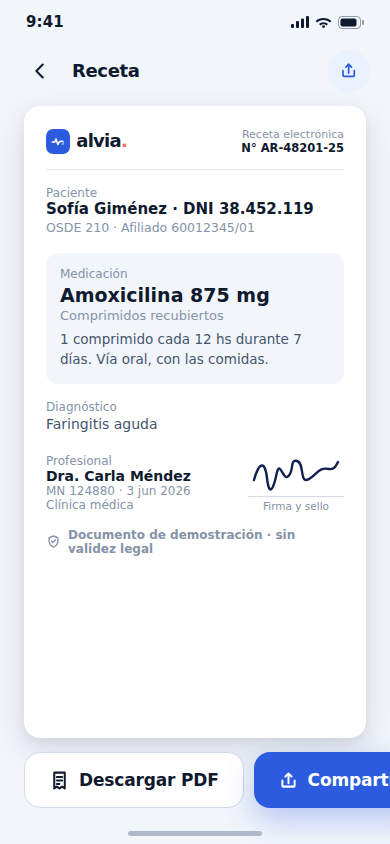
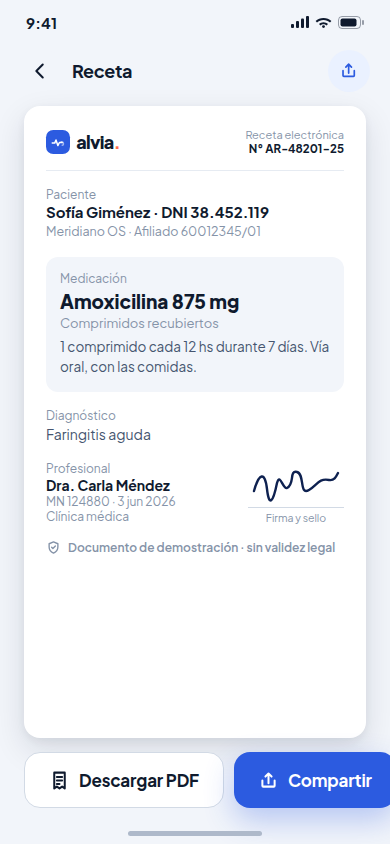
fix: replace OSDE in public demo fixtures (#3)

diff --git a/v3/index.html b/v3/index.html
@@ -44,7 +44,7 @@
       <div class="hero-media">
         <img class="hero-photo" src="assets/doctor-videoconsulta.png" alt="Médico atendiendo una videoconsulta con Alvia">
         <figure class="hero-product">
-          <img src="assets/app-paciente.png" alt="Aplicación de Alvia para el afiliado">
+          <img src="assets/app-paciente.png?v=20260824-meridiano-os" alt="Aplicación de Alvia para el afiliado">
           <figcaption><span></span>Atención espontánea y turnos</figcaption>
         </figure>
       </div>
@@ -154,7 +154,7 @@
               <li>Bloquea atenciones fuera de la cobertura.</li>
             </ul>
           </div>
-          <figure class="phone-shot"><img src="assets/mockup-preconsulta-autorizacion.png" alt="Código de autorización en la app de Alvia"></figure>
+          <figure class="phone-shot"><img src="assets/mockup-preconsulta-autorizacion.png?v=20260824-meridiano-os" alt="Código de autorización en la app de Alvia"></figure>
         </article>
 
         <article class="feature">
@@ -168,7 +168,7 @@
               <li>Pago registrado y listo para conciliar.</li>
             </ul>
           </div>
-          <figure class="phone-shot"><img src="assets/mockup-preconsulta-copago.png" alt="Copago de una consulta en la app de Alvia"></figure>
+          <figure class="phone-shot"><img src="assets/mockup-preconsulta-copago.png?v=20260824-meridiano-os" alt="Copago de una consulta en la app de Alvia"></figure>
         </article>
 
         <article class="feature feature-reverse">
@@ -182,7 +182,7 @@
               <li>Registro disponible para auditoría.</li>
             </ul>
           </div>
-          <figure class="phone-shot"><img src="assets/mockup-postconsulta-paciente.png" alt="Receta electrónica en la app del afiliado"></figure>
+          <figure class="phone-shot"><img src="assets/mockup-postconsulta-paciente.png?v=20260824-meridiano-os" alt="Receta electrónica en la app del afiliado"></figure>
         </article>
       </div>
     </section>
@@ -211,7 +211,7 @@
           <p>Video, historia clínica, cobertura, documentación y prescripción en una misma consola.</p>
         </header>
         <figure class="console-window live-consultation">
-          <img class="live-consultation__base" src="assets/console-medica.png" alt="Consola médica de Alvia durante una videoconsulta">
+          <img class="live-consultation__base" src="assets/console-medica.png?v=20260824-meridiano-os" alt="Consola médica de Alvia durante una videoconsulta">
           <video class="live-consultation__patient" src="assets/videoconsulta-paciente.mp4" autoplay muted loop playsinline preload="metadata" disablepictureinpicture aria-label="Paciente participando de la videoconsulta"></video>
           <div class="live-consultation__shade" aria-hidden="true"></div>
           <span class="live-consultation__role" aria-hidden="true">Paciente</span>

diff --git a/v2/index.html b/v2/index.html
@@ -151,8 +151,8 @@
         <div class="use-grid">
           <article class="use-card">
             <figure class="use-photo use-photo--product use-photo--phones">
-              <img src="assets/mockup-preconsulta-autorizacion.png" alt="Código de autorización en la app del afiliado">
-              <img src="assets/mockup-preconsulta-copago.png" alt="Copago previo a la consulta en la app del afiliado">
+              <img src="assets/mockup-preconsulta-autorizacion.png?v=20260824-meridiano-os" alt="Código de autorización en la app del afiliado">
+              <img src="assets/mockup-preconsulta-copago.png?v=20260824-meridiano-os" alt="Copago previo a la consulta en la app del afiliado">
             </figure>
             <h3>La cobertura se valida antes de atender</h3>
             <p>Validá identidad, cobertura y plan. Si corresponde, el afiliado paga el copago con tarjeta, transferencia o QR antes de la consulta. Cada cobro queda registrado.</p>
@@ -160,7 +160,7 @@
           <article class="use-card">
             <figure class="use-photo use-photo--product use-photo--consultation">
               <div class="live-consultation">
-                <img class="live-consultation__base" src="assets/console-medica.png" alt="Consola médica real de Alvia durante una videoconsulta">
+                <img class="live-consultation__base" src="assets/console-medica.png?v=20260824-meridiano-os" alt="Consola médica real de Alvia durante una videoconsulta">
                 <video class="live-consultation__patient" src="assets/videoconsulta-paciente.mp4" autoplay muted loop playsinline preload="metadata" disablepictureinpicture aria-label="Paciente participando de la videoconsulta"></video>
                 <div class="live-consultation__shade" aria-hidden="true"></div>
                 <span class="live-consultation__role" aria-hidden="true">Paciente</span>
@@ -195,7 +195,7 @@
           <div class="product-proof-grid">
             <figure class="product-shot product-shot--phone">
               <div class="product-shot-media">
-                <img src="assets/mockup-postconsulta-paciente.png" alt="Receta electrónica disponible en la app del afiliado">
+                <img src="assets/mockup-postconsulta-paciente.png?v=20260824-meridiano-os" alt="Receta electrónica disponible en la app del afiliado">
               </div>
               <figcaption>App del afiliado · Receta electrónica</figcaption>
             </figure>
@@ -220,7 +220,7 @@
 
     <section class="split-dark" id="operacion">
       <figure class="split-img">
-        <img src="assets/console-medica.png" alt="Consola médica Alvia">
+        <img src="assets/console-medica.png?v=20260824-meridiano-os" alt="Consola médica Alvia">
       </figure>
       <div class="split-copy">
         <p class="brand-kicker">— Antes, durante y después —</p>

diff --git a/v1/index.html b/v1/index.html
@@ -1392,7 +1392,7 @@
               <div style="width:30px;height:30px;border-radius:50%;background:var(--brand-soft-2);color:var(--brand);display:flex;align-items:center;justify-content:center;font-weight:700;font-size:11.5px">MP</div>
               <div>
                 <div style="font-weight:700;font-size:13px;color:var(--fg)">Martín Pereyra</div>
-                <div style="font-size:11px;color:var(--fg-muted)">OSDE 210 · DNI 30.111.222</div>
+                <div style="font-size:11px;color:var(--fg-muted)">Meridiano OS · DNI 30.111.222</div>
               </div>
             </div>
             <div style="display:flex;align-items:center;gap:7px;font-size:12px;font-weight:600;color:var(--fg-secondary)"><span style="width:7px;height:7px;border-radius:50%;background:#1F9D63;display:inline-block"></span><span data-es="En consulta · 04:12" data-en="In visit · 04:12">En consulta · 04:12</span></div>
